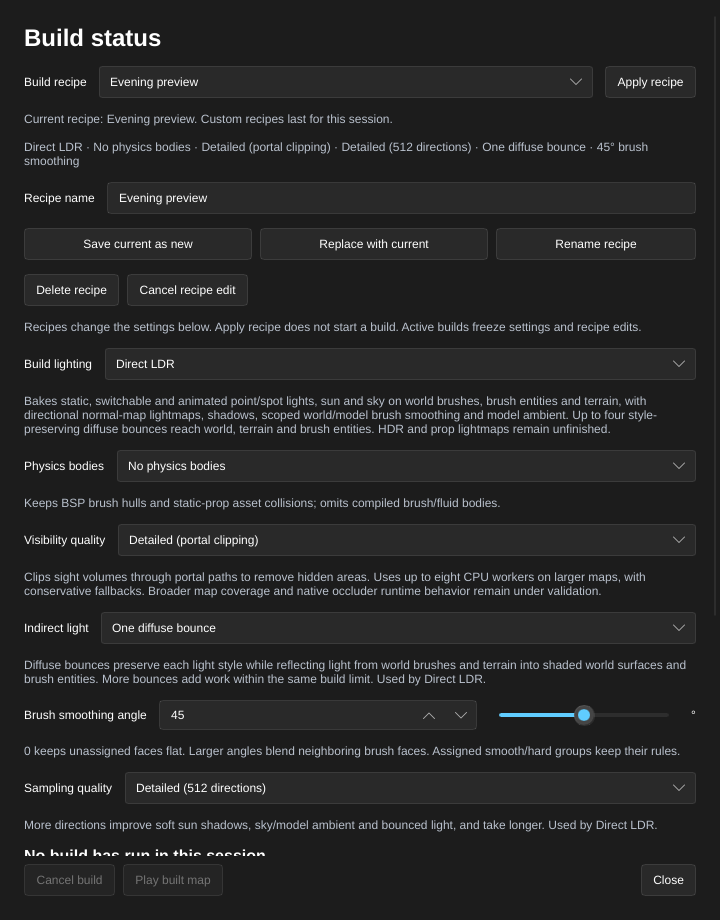
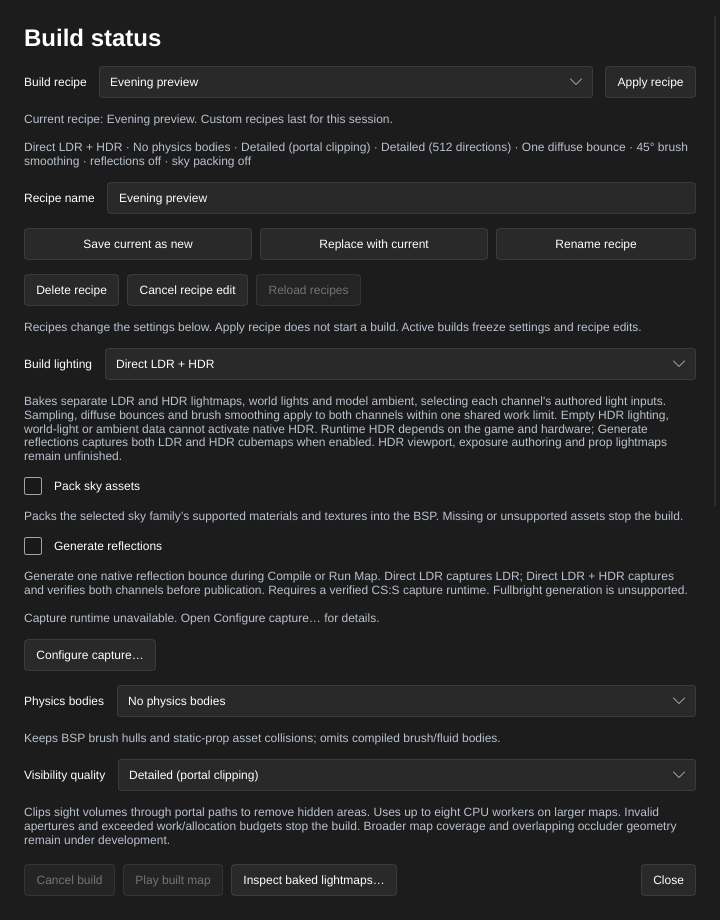
Validate shared settings and recipe reload
- Preserve application authorities in shutdown fixtures
- Document Reload and refresh raw build settings captures
- Pass strict Rust, resource ownership and nine MCP checks

Changed region(s): [[0.0306, 0.4261, 0.9472, 0.9739], [0.1222, 0.1522, 0.9472, 0.1826], [0.3667, 0.3043, 0.4889, 0.3348]]

diff --git a/crates/editor-core/src/startup/tests.rs b/crates/editor-core/src/startup/tests.rs
@@ -5,11 +5,15 @@ fn fixture() -> (tempfile::TempDir, Application, PathBuf) {
     let path = directory.path().join("recovery");
     let material_favorites = material_favorites::Authority::configured(Ok(path.clone()));
     let recent_maps = recent_maps::Authority::configured(recent_maps::directory(Ok(path.clone())));
+    let shortcuts = shortcuts::Authority::configured(Ok(path.clone()));
+    let saved_defaults = crate::saved_defaults::SavedDefaults::configured(Ok(path.clone()));
     let mut state = Session::with_material_favorites(
         Err("No content required".into()),
         material_favorites.clone(),
     );
     state.use_application_recent_maps(recent_maps.clone());
+    state.use_application_shortcuts(shortcuts.clone());
+    state.use_application_saved_defaults(saved_defaults.clone());
     state.configure_recovery(Ok(path.clone()));
     state
         .create_block(
@@ -30,6 +34,8 @@ fn fixture() -> (tempfile::TempDir, Application, PathBuf) {
         _recovery_worker: worker,
         material_favorites,
         recent_maps,
+        shortcuts,
+        saved_defaults,
         session,
         open_message: None,
         finished: None,

diff --git a/docs/status.md b/docs/status.md
@@ -72,7 +72,7 @@ HammeRR is in active development.
 | Build settings | Fullbright, Direct LDR or Direct LDR + HDR lighting, physics, visibility, sampling, bounces, smoothing, default-off sky packing and LDR or paired LDR/HDR reflection generation available before the first build; eight values shared with agents, retained by compatible recent-map contexts and custom recipes, captured by jobs and frozen during builds | — |
 | Portable sky assets | Default-off **Pack sky assets** admits six static LDR or complete LDR/HDR sky faces, retains exact original VMT/Patch/runtime texture bytes and names, and verifies a bounded asset-relative manifest before guarded publication and offline Run staging. Pack-only playback needs no original custom sky mount after publication. Optional generated reflections retain the sky entries while rebasing their own names | Compressed HDR skies, conditional/animated/ambiguous material declarations, native HDR radiance validation and unrelated asset packing |
 | Compile regions | One native axis-aligned region, shared preview/review/cancel, Undo and save/reopen; whole brushes/terrain, contained world water, complete imported regular overlays and water transitions, contained portals/windows/occluders and explicit model and sprite details selected by inclusive authored origin (zero when absent) with normal asset/bounds/open-leaf/lighting checks; six black sealing slabs, retained sun/water controls and frozen build scope; effective imported-box framing/guides | Multiple active regions, crossing terrain/water/helpers, runtime-model terrain, detail/model water, slime and visclusters; every overlay target and window model must remain available; plural records need explicit Clear before replacement |
-| Build recipes | Fast preview and Final lighting presets, up to 32 persistent named custom settings, shared create/edit/delete/apply controls and recipe identity captured at build start | Arbitrary commands, extra or reordered compiler stages and output-path recipes; the compiler's existing limits still apply |
+| Build recipes | Fast preview and Final lighting presets, up to 32 persistent named custom settings, shared create/edit/delete/apply and **Reload recipes** controls; valid Reload recovers external edits/repairs without applying settings, and jobs retain their captured identity | Arbitrary commands, extra or reordered compiler stages and output-path recipes; the compiler's existing limits still apply |
 | Visibility | Bounded full-map [authored visibility clusters](visclusters.md) coarsen baseline PVS/PAS conservatively while preserving physical leaf identity and individual LDR/HDR ambient samples; Fast conservative sets or Detailed portal separator clipping, with checked apertures and bounded parallel portal-facing rows and source flow; authored finite hint priority and remaining open-leaf cuts; visible/audible sets, sky visibility, areaportals, distance-fading windows and checked native occluder polygons/indices/areas from up to sixteen separated, touching or overlapping convex brushes, preserving concave boundaries and holes, with active/deactivate/activate/toggle culling | Edge/point contacts, ambiguous thin contact, cross-entity CSG, area transitions and broader map coverage |
 | Lighting | Fullbright; Direct LDR or Direct LDR + HDR for static, switchable and animated point/spot lights, one sun and sky ambient; directional normal-map lightmaps, soft sun, Fast/Balanced/Detailed sampling, percentage falloff, opaque brush/terrain/static-prop mesh shadows and requested bounded prop alpha-test cutouts across direct, sky, bounced and ambient rays, terrain, pivot-aware direct brush-entity maps with self shadows, scoped world/model brush groups or optional angle smoothing, including partial-edge junctions and up to four style-preserving diffuse world/terrain-source bounces into world/model receivers; conservative point/spot visibility and exact-range culling | Adaptive sampling, fractional/translucent shadows, second-normal-map-only materials, model relighting/reflected sources and baked prop lightmaps |
 | HDR channels | Separate LDR/HDR faces, styles, sample offsets, world lights, bounces and ambient probes; authored HDR color/scale overrides; per-channel statistics and one shared cancellable work budget; native selection of either baked channel. Authored HDR sky families retain the native material path; explicit sky packing admits supported complete dependencies. Empty required HDR data produces an explicit unavailable diagnostic without dummy records; map-data readiness does not report the game's selected channel | Native sky shader/exposure parity, baked prop lightmaps and verified Source-frame identity for diagnostic HDR captures; offline screenshot-protocol receipts do not establish native presentation identity |

diff --git a/docs/mcp.md b/docs/mcp.md
@@ -178,7 +178,7 @@ for source, geometry and memory limits.
 
 ## Tools by task
 
-The shared desktop and private stdio server register 408 tools. `tools/list`
+The shared desktop and private stdio server register 409 tools. `tools/list`
 returns their current schemas and descriptions.
 
 | Task | Tools |
@@ -251,7 +251,7 @@ returns their current schemas and descriptions.
 | Saved camera views | `get_camera_views`, `save_camera_view`, `restore_camera_view`, `rename_camera_view`, `delete_camera_view` |
 | Pointfiles | `load_pointfile`, `get_pointfile`, `navigate_pointfile`, `frame_pointfile`, `clear_pointfile` |
 | Compile and play | `get_compile_settings`, `set_compile_settings`, `start_compile`, `get_compile_status`, `cancel_compile`, `compile_map`, `run_map`, `launch_game`, `game_log`, `stop_game` |
-| Build recipes | `get_build_recipes`, `save_build_recipe`, `rename_build_recipe`, `delete_build_recipe`, `apply_build_recipe` |
+| Build recipes | `get_build_recipes`, `save_build_recipe`, `rename_build_recipe`, `delete_build_recipe`, `apply_build_recipe`, `reload_build_recipes` |
 
 ## Good to know
 
@@ -1864,10 +1864,11 @@ Preferences use `recent-maps.json` in recovery storage. `HAMMERR_RECENT_MAPS_DIR
 | `rename_build_recipe` | `id`, `name`, optional `revision`; changes only a custom recipe's name. |
 | `delete_build_recipe` | `id`, optional `revision`; removes a custom recipe while retaining current compiler values. |
 | `apply_build_recipe` | `id`, optional `revision`; applies all settings through the shared settings operation without starting a build. |
+| `reload_build_recipes` | Optional `revision`; adopts a complete valid saved registry without applying compiler settings. |
 
-Pass the returned registry revision to reject stale edits. Active or cancelling jobs block every recipe mutation and Apply. `get_compile_settings.recipe` identifies the current applied recipe or is null; a changed value clears it. `get_compile_status.job.recipe` keeps the identity captured when that build started, including after rename/deletion. Names alone do not stale output. These operations leave VMF and map Undo unchanged.
+Pass the returned registry revision to reject stale edits. Active or cancelling jobs block every recipe mutation, Apply and Reload. `get_compile_settings.recipe` identifies the current applied recipe or is null; a changed value clears it. `get_compile_status.job.recipe` keeps the identity captured when that build started, including after rename/deletion. Names alone do not stale output. These operations leave VMF and map Undo unchanged.
 
-Custom recipes use `build-recipes.json` in recovery storage; `HAMMERR_BUILD_RECIPES` overrides the file and `HAMMERR_RECOVERY_DIR` isolates the default. Limits are 32 customs, unique names ignoring case, 1–80 UTF-8 bytes per trimmed name without control characters and a 65,536-byte file. Invalid loads block custom edits while built-ins remain usable. Failed writes preserve preferences and can retry; detected disk changes require restart. Simultaneous writes are not coordinated. Loading recipes does not apply a custom recipe automatically. See [Build recipes](build-recipes.md).
+Custom recipes use `build-recipes.json` in recovery storage; `HAMMERR_BUILD_RECIPES` overrides the file and `HAMMERR_RECOVERY_DIR` isolates the default. Limits are 32 customs, unique names ignoring case, 1–80 UTF-8 bytes per trimmed name without control characters and a 65,536-byte file. Invalid loads block custom edits while built-ins remain usable. Failed writes preserve preferences and can retry; detected disk changes require `reload_build_recipes`. Reload shares **Reload recipes** in **Build settings…** or **Build details…**. A failed configured-path Reload retains the valid list and active identity, reports the error and blocks custom edits until repaired storage reloads. Successful Reload retains the same applied recipe ID only when its loaded settings still match current options; rename updates the label, replacement/deletion clears it. Neither outcome applies options or changes map/history/camera/owned drafts or captured jobs. Unconfigured session-only storage rejects Reload without blocking local edits. Simultaneous writes remain uncoordinated. Loading recipes does not apply a custom recipe automatically. See [Build recipes](build-recipes.md).
 
 ### Prop shadows and occluders
 

diff --git a/docs/development.md b/docs/development.md
@@ -24,7 +24,10 @@ Application owns concrete Favorites and Recent maps authorities; deliberately
 attached Sessions share their lists, storage observations, errors and revisions. Independently
 constructed Sessions keep their own authority. Recovery reconfiguration cannot
 rebind an attached authority. Material catalog and preview updates publish one
-owned Favorites snapshot without locking another Session. MCP tool groups and parameters live under `editor-core/src/mcp/`, while desktop composition and feature bindings live under `editor/src/ui/` and the feature-specific UI modules.
+owned Favorites snapshot without locking another Session. Application also owns
+active shortcuts and a SavedDefaults bundle whose three typed stores share one
+storage-state implementation. Current grid, preview switches and fly speed stay
+Session-local; applying saved values acts only on the originating Session. MCP tool groups and parameters live under `editor-core/src/mcp/`, while desktop composition and feature bindings live under `editor/src/ui/` and the feature-specific UI modules.
 
 `Session` owns geometry-preview state through `session/previews.rs`. Rendering, picking and tool-texture filtering share its displayed-document selector. Feature modules validate replacement drafts before clearing competitors through the coordinator; their own payloads and ownership tokens remain local.
 
@@ -2326,7 +2329,6 @@ page clamping, selected material/filter retention, independent status recovery
 and an unavailable catalog. The existing explicit UI ownership test includes
 retained-child toggle and Reload callbacks after their owner is dropped.
 
-
 ### Shared Favorites authority
 
 ```sh
@@ -2343,7 +2345,6 @@ visible-window refresh. The existing retained-child resource check still covers
 owner release. This is a persistence seam; multiple open documents and document
 targeting are separate work.
 
-
 ### Shared Recent maps authority
 
 ```sh
@@ -2358,3 +2359,36 @@ Reload, compatible idle build restoration and incompatible/compiling documents.
 Primary map Open/Save remain successful on history-storage failure. Other
 Sessions' history, cameras, selection and owned reviews remain independent.
 Existing separate-process writer checks retain their explicit Reload policy.
+
+### Shared shortcuts and saved defaults
+
+```sh
+cargo test -p editor-core --features mcp shortcuts::authority::tests
+cargo test -p editor-core --features mcp saved_defaults::tests
+cargo test -p editor-core --features mcp attached_mcp_sessions
+cargo test -p editor-core --features mcp attached_shortcut_tools
+cargo test -p editor shared_saved_grid_errors -- --test-threads=1
+cargo test -p editor attached_shortcut_forms -- --test-threads=1
+python3 -B scripts/validate_preference_conflicts.py --binary target/debug/hammerr-headless --output /tmp/hammerr-preference-conflicts-check
+```
+
+The shared-state checks distinguish saved defaults from current settings, retain
+origin-local commands, test startup exactly once and reject stale shared forms
+inside the authority guard. Storage failures, reviewed bad-file Reset, original
+directory identity and committed-write errors keep their existing contracts.
+Software controls cover shared hints/forms and the Grid badge without invalidating
+owned geometry or measurement picks.
+
+### Build recipe Reload
+
+```sh
+cargo test -p editor-core --features mcp session::compilation::recipes::reload_tests
+cargo test -p editor compile_ui::recipe_reload_tests -- --test-threads=1
+python3 -B scripts/validate_build_recipes.py --binary target/debug/hammerr-headless --output /tmp/hammerr-build-recipes-check
+```
+
+The existing private validator now exercises changed and repaired storage, failed
+Reload retention, stale actions and owned-review/GPU-lazy state. Session checks
+cover busy/closing admission, unchanged compiler values, applied recipe identity,
+captured jobs and session-only storage. Software callbacks capture the existing
+build window and keep its Reload action available for configured storage errors.

diff --git a/docs/build-recipes.md b/docs/build-recipes.md
@@ -36,6 +36,8 @@ Custom recipes save on this computer separately from VMF files and map undo. The
 2. Review the refreshed list and storage status. A failed Reload keeps the previous valid list and current recipe label, displays the error, and blocks custom changes until a successful Reload. **Reload recipes** stays available for repair while no build is active.
 3. Choose a recipe and click **Apply recipe** when you want its settings. Reload itself preserves current compiler settings, map history, camera and pending reviews. It keeps an active recipe label, including a changed name, only when that same saved recipe still matches current values; removed or changed recipes clear the label to **Custom settings**.
 
+![Saved recipes remain available while Reload reports a storage error](images/build-recipes-reload.png)
+
 Reload is unavailable for session-only storage and while a build runs or the editor closes. Completed jobs keep their captured recipe name and settings. Existing registry revisions reject actions prepared before a Reload; review the refreshed list before retrying a stale action.
 
 Both built-in recipes disable sky packing and reflection generation. Missing booleans in older custom recipes default to off; a disabled packing field remains omitted from stored version-1 records. See [Pack portable sky assets](compile-and-play.md#pack-portable-sky-assets).

diff --git a/README.md b/README.md
@@ -311,7 +311,7 @@ Also: a typed inspector with color pickers, brightness sliders and spawn flags; 
 | Named build recipes | Portable sky assets |
 | --- | --- |
 | ![Named build recipes and their compiler settings](docs/images/build-recipes.png) | ![Sky asset packing enabled in Build settings](docs/images/build-pack-sky-assets.png) |
-| Recall Fast preview, Final lighting or named custom combinations of native compiler settings. | Include supported LDR/HDR sky materials and textures in the BSP with their original names and bytes. |
+| Save, recall and reload named compiler settings alongside Fast preview and Final lighting. | Include supported LDR/HDR sky materials and textures in the BSP with their original names and bytes. |
 
 | Baked lightmaps |
 | --- |
